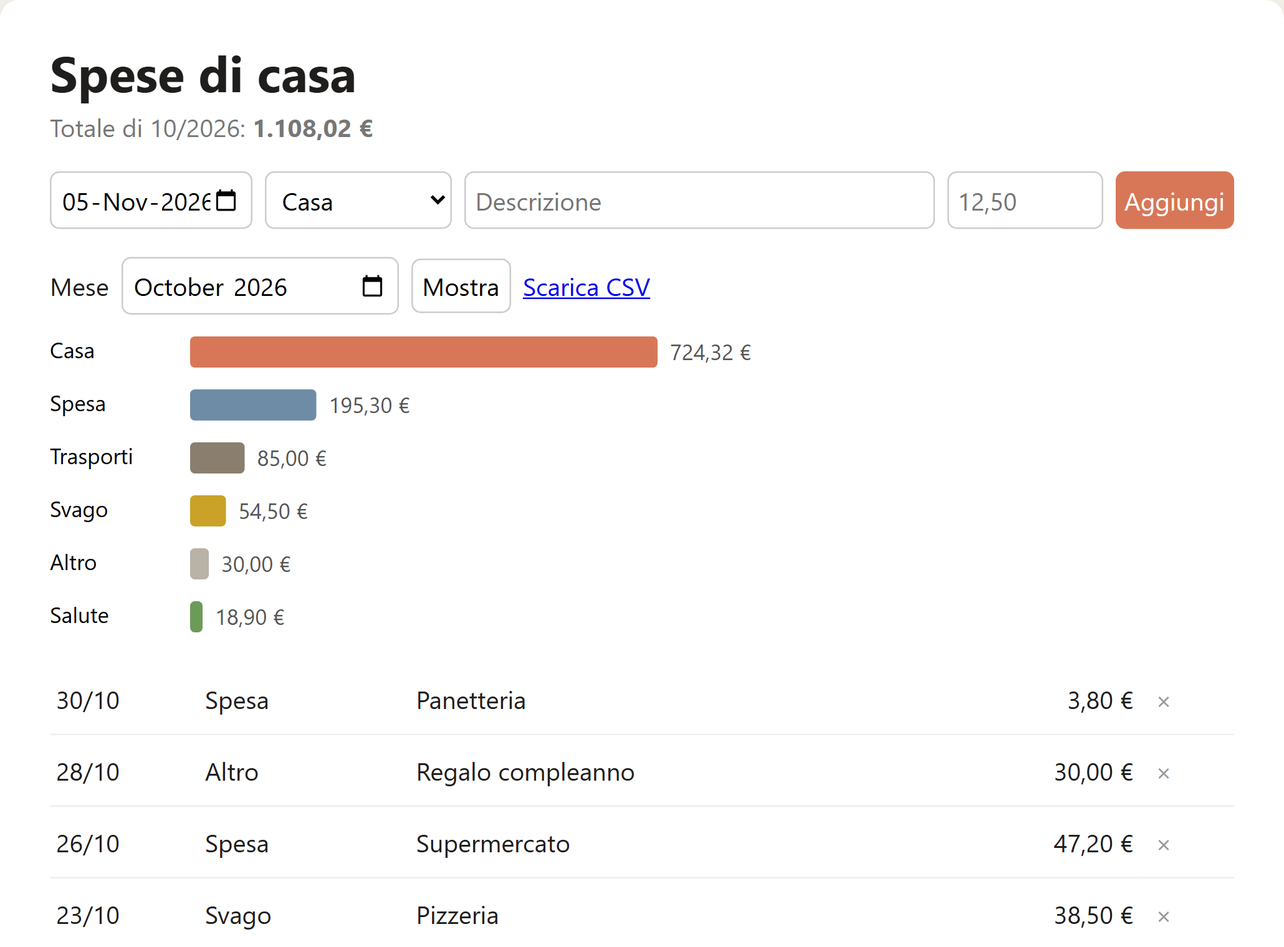
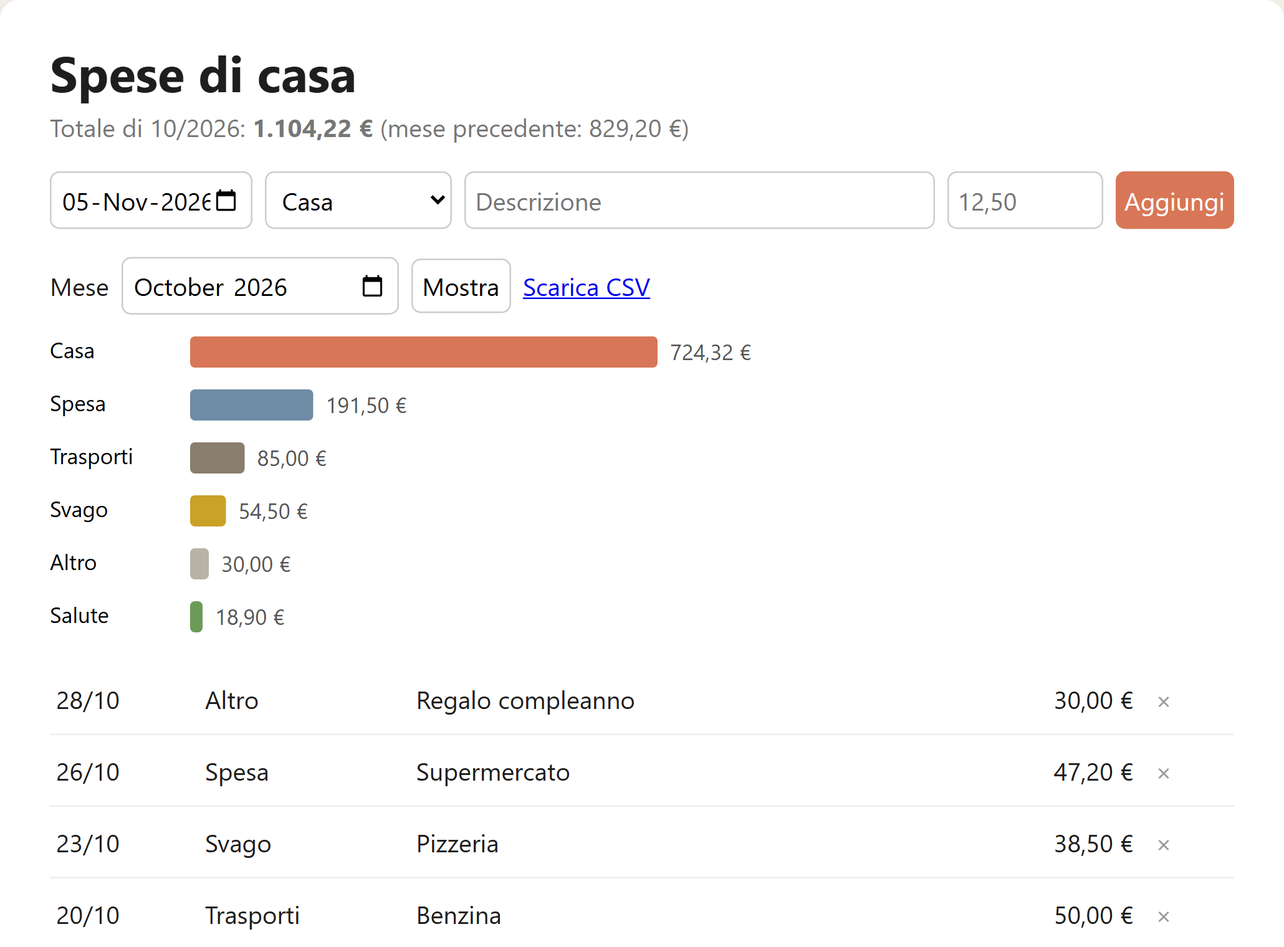
S17: cap. 13 «Un progetto completo» — 10 pp., 2.474 parole, 3 figure
- capitoli/13-un-progetto-completo.md: «Spese di casa» dal requisito
  alla documentazione: piano (centesimi, SQLite), dati prima della
  pagina, la pagina, la prova vera (messaggi in inglese → rosso/verde),
  quarta sessione (mese precedente, caso limite di gennaio), «E poi?»,
  dietro le quinte (comando bloccato dalla modalità Auto), Git e README
- esempi/cap13/spese/: funzione mese_precedente/totale, 9 test OK, dati
  di esempio su due mesi; nuova schermata IMG-13-02
- FATTI.md: F-127 corretto (due episodi distinti nella fonte)
- build_book.py: blocchi di codice brevi indivisibili e legati al
  paragrafo che li introduce
- glossario +6 voci; PLAN.md §13 aggiornato

diff --git a/esempi/cap13/spese/app.py b/esempi/cap13/spese/app.py
@@ -40,6 +40,8 @@ def pagina(mese, messaggio=""):
         for i, d, c, t, cent in spese.del_mese(DB, mese))
     opzioni = "".join(f"<option>{c}</option>" for c in spese.CATEGORIE)
     totale = spese.euro(sum(totali.values()))
+    prima = spese.totale(DB, spese.mese_precedente(mese))
+    confronto = f" (mese precedente: {spese.euro(prima)})" if prima else ""
     return f"""<!doctype html><html lang="it"><meta charset="utf-8">
 <title>Spese di casa</title><style>
 body {{ font-family: system-ui, sans-serif; background: #f4f1ea; margin: 0; color: #1f1e1d }}
@@ -55,7 +57,7 @@ td button {{ border: 0; color: #999 }} svg text {{ font-size: 14px }} svg .val {
 .messaggio {{ background: #fbe9e5; padding: 8px 12px; border-radius: 6px }}
 .mese {{ display: flex; gap: 8px; align-items: center; margin: 18px 0 8px }}
 </style><main>
-<h1>Spese di casa</h1><p class="sotto">Totale di {mese[5:]}/{mese[:4]}: <b>{totale}</b></p>
+<h1>Spese di casa</h1><p class="sotto">Totale di {mese[5:]}/{mese[:4]}: <b>{totale}</b>{confronto}</p>
 {f'<p class="messaggio">{html.escape(messaggio)}</p>' if messaggio else ''}
 <form class="nuova" method="post" action="/aggiungi">
  <input type="date" name="data" value="{date.today().isoformat()}" required>

diff --git a/build/build_book.py b/build/build_book.py
@@ -497,6 +497,13 @@ class Costruttore:
         larghezza_tabella(tab, stili.LARGHEZZA_TESTO_CM)
         margini_cella(tab, 0.15, 0.3, 0.15, 0.3)
         cella = tab.cell(0, 0)
+        if len(contenuto.splitlines()) <= 30:     # i blocchi brevi non si spezzano tra due pagine
+            tab.rows[0]._tr.get_or_add_trPr().append(stili.elemento("w:cantSplit"))
+            # e il paragrafo che li introduce («…così:») resta sulla stessa pagina
+            prec = tab._tbl.getprevious()
+            if prec is not None and prec.tag == qn("w:p"):
+                from docx.text.paragraph import Paragraph
+                Paragraph(prec, target).paragraph_format.keep_with_next = True
         if terminale:
             bordi_tabella(tab, {})
             sfondo_cella(cella, stili.FONDO_TERMINALE)

diff --git a/esempi/cap13/spese/test_spese.py b/esempi/cap13/spese/test_spese.py
@@ -38,6 +38,13 @@ class TestSpese(unittest.TestCase):
         self.assertEqual(spese.totali_per_categoria(self.db, "2026-10"),
                          {"Casa": 8000, "Spesa": 5800})
 
+    def test_mese_precedente(self):
+        self.assertEqual(spese.mese_precedente("2026-10"), "2026-09")
+        self.assertEqual(spese.mese_precedente("2026-01"), "2025-12")
+
+    def test_totale_del_mese_vuoto(self):
+        self.assertEqual(spese.totale(self.db, "2026-09"), 0)
+
     def test_dati_sbagliati_non_entrano(self):
         with self.assertRaises(ValueError):
             spese.aggiungi(self.db, "2026-02-30", "Casa", "Data impossibile", "10")

diff --git a/esempi/cap13/spese/dati_esempio.py b/esempi/cap13/spese/dati_esempio.py
@@ -1,7 +1,11 @@
-"""Riempie spese.db con un mese di spese inventate, per provare l'applicazione."""
+"""Riempie spese.db con due mesi di spese inventate, per provare l'applicazione."""
 import spese
 
 ESEMPIO = [
+    ("2026-09-01", "Casa", "Affitto", "650"),
+    ("2026-09-04", "Spesa", "Supermercato", "71,10"),
+    ("2026-09-15", "Casa", "Bolletta gas", "41,80"),
+    ("2026-09-22", "Spesa", "Supermercato", "66,30"),
     ("2026-10-01", "Casa", "Affitto", "650"),
     ("2026-10-02", "Spesa", "Supermercato", "62,40"),
     ("2026-10-05", "Trasporti", "Abbonamento autobus", "35"),

diff --git a/esempi/cap13/spese/spese.py b/esempi/cap13/spese/spese.py
@@ -74,6 +74,17 @@ def totali_per_categoria(db, mese):
     return {c: t for c, t in sorted(righe, key=lambda r: -r[1])}
 
 
+def mese_precedente(mese):
+    """'2026-01' -> '2025-12'."""
+    anno, m = int(mese[:4]), int(mese[5:7])
+    return f"{anno - 1}-12" if m == 1 else f"{anno}-{m - 1:02d}"
+
+
+def totale(db, mese):
+    """Totale del mese in centesimi (0 se non ci sono spese)."""
+    return sum(totali_per_categoria(db, mese).values())
+
+
 def euro(centesimi):
     """1234567 -> '12.345,67 €' (formato italiano)."""
     intero, cent = divmod(centesimi, 100)

diff --git a/capitoli/13-un-progetto-completo.md b/capitoli/13-un-progetto-completo.md
@@ -1,0 +1,188 @@
+# Un progetto completo
+
+Kyle Easterly lavora come consulente e costruisce software con me. Ha raccontato che un ente non profit come lo Statewide Independent Living Council of Alaska, che organizza servizi per giovani con disabilità, prima non avrebbe mai potuto permettersi un programma su misura: i fondi per un progetto del genere semplicemente non c'erano. Oggi, dice, «un'intera categoria di cose è diventata possibile»: per un altro cliente trascrive in fogli di calcolo i registri delle consegne di carburante scritti a mano, e ha appena consegnato un'app per tablet. <!-- F-127 --> Mi piace questa storia perché non parla di grandi aziende tecnologiche: parla di un problema concreto, di una persona che lo conosceva bene e di un programma costruito su misura.
+
+Questo capitolo fa la stessa cosa in piccolo. Mettiamo insieme tutto quello che abbiamo visto finora, dal requisito alla documentazione, e costruiamo un'applicazione vera dall'inizio alla fine. L'ho costruita davvero mentre scrivevo queste pagine, e racconterò anche le cose andate storte, perché sono quelle che insegnano di più.
+
+## Il progetto: Spese di casa
+
+Anna, che abbiamo conosciuto nel capitolo 6 mentre riordinava la cartella dei download, vuole capire dove finiscono i soldi di casa. Ha provato con un foglio Excel, ma ogni mese finisce per rifare le stesse somme a mano, e il grafico non si aggiorna mai come dovrebbe. Vuole una cosa semplice: annotare ogni spesa con la sua categoria e vedere, mese per mese, quanto ha speso per la casa, per la spesa, per i trasporti.
+
+È un progetto perfetto per imparare: abbastanza piccolo da completarlo in un pomeriggio, abbastanza grande da contenere tutti gli ingredienti di un'applicazione vera. Ci sono dei dati da conservare, delle regole da rispettare, una pagina da usare, dei test, una storia delle versioni e un manuale d'uso.
+
+## Prima sessione: il requisito e il piano
+
+Si comincia, come sempre, da mezza pagina:
+
+```terminale
+> Voglio un'applicazione per annotare le spese di casa.
+  Per ogni spesa: data, categoria (Casa, Spesa, Trasporti,
+  Salute, Svago, Altro), descrizione, importo in euro.
+  Voglio vedere le spese di un mese, il totale e un grafico
+  per categoria, e poter scaricare il mese per Excel.
+  La uso solo io, sul mio computer. Deve essere facile da
+  avviare e non voglio installare programmi strani.
+  Fammi un piano prima di scrivere codice.
+```
+
+In plan mode leggo la richiesta, ragiono e propongo un piano. Riassunto, il mio piano diceva così:
+
+- **Tecnologia**: Python, usando solo la sua libreria standard, cioè gli strumenti che Python ha già di serie. Così basta installare Python e nient'altro.
+- **Dati**: un piccolo database SQLite, che è un file unico, `spese.db`, nella cartella dell'applicazione. Copiare quel file significa fare una copia di sicurezza di tutto.
+- **Struttura**: tre file. `spese.py` con le regole e i calcoli, `app.py` con la pagina web, `test_spese.py` con i test.
+- **Gli importi in centesimi**: 12,50 € viene salvato come 1250. Il motivo è tecnico ma importante, e lo spiego tra un momento.
+- **Ordine di lavoro**: prima i dati e le regole con i loro test, poi la pagina.
+
+La figura 13.1 mostra come si incastrano i pezzi.
+
+![Com'è fatta «Spese di casa»: la pagina parla con le regole, le regole con i dati, i test controllano le regole](assets/cap13/IMG-13-01-architettura.png){larghezza=13}
+
+::: nota Perché i soldi si contano in centesimi
+I computer rappresentano i numeri con la virgola in un modo che a volte produce piccole imprecisioni: in molti linguaggi, per esempio, 0,1 + 0,2 non fa esattamente 0,3, ma 0,30000000000000004. Per un calcolo scientifico non importa; per un conto in euro sì, perché quelle briciole si sommano e prima o poi un totale non torna. Contando in centesimi interi il problema sparisce: 10 + 20 fa sempre 30. È una regola che chi scrive programmi di contabilità impara presto, e che tu puoi chiedermi di rispettare anche quando non me ne ricordo.
+:::
+
+Un piano non si approva a scatola chiusa. Prima di dire sì, Anna mi fa tre domande, ed è un'ottima abitudine. *Dove finiscono i miei dati?* In un file sul suo computer, non su internet. *Che cosa succede se il computer si rompe?* Si perde tutto, a meno di copiare ogni tanto `spese.db` su una chiavetta o in una cartella di backup: lo scriveremo nel manuale. *Potrò cambiare le categorie?* Sì, sono un elenco all'inizio di `spese.py`, facile da modificare. Tre domande, tre risposte che cambiano poco il codice ma molto la fiducia.
+
+SQLite, per inciso, è il genere di tecnologia che non si vede ma c'è dappertutto: è un database completo che sta in un singolo file, senza un programma separato da installare e da tenere acceso. Per uno strumento personale è la scelta più semplice che funzioni, quella che il capitolo 10 ci ha insegnato a chiedere.
+
+Anna approva il piano con «Yes, manually approve edits», la modalità prudente del capitolo 7, e si comincia.
+
+## Seconda sessione: prima i dati, poi la pagina
+
+Può sembrare strano non partire dalla parte che si vede. Ma la pagina è solo una finestra: il cuore dell'applicazione sono le regole. Come si legge un importo scritto da una persona? Che cosa succede con una data impossibile, come il 30 febbraio? Come si calcolano i totali del mese? Se queste regole sono giuste e verificate, la pagina è una formalità. Se sono sbagliate, nessuna pagina, per quanto bella, le salverà.
+
+Ecco una delle regole, quella che legge gli importi. Ho imparato la lezione del capitolo 11, e questa volta la virgola all'italiana l'ho prevista fin dall'inizio:
+
+```python
+def leggi_importo(testo):
+    """'12,50' o '1.234,5' -> centesimi (int)."""
+    s = testo.strip().replace("€", "").strip()
+    if "," in s:
+        s = s.replace(".", "").replace(",", ".")
+    euro = float(s)
+    if euro <= 0:
+        raise ValueError("L'importo deve essere positivo")
+    return round(euro * 100)
+```
+
+Insieme alle regole ho scritto sei test: gli importi all'italiana («12,50», «1.234,5», «€ 3,20»), gli importi non validi («dodici», «-5», «0»), il formato degli euro nelle pagine, i totali di un mese con spese su due mesi diversi, i dati sbagliati che non devono entrare e il file CSV per Excel. Ognuno usa un database «usa e getta», creato in memoria e buttato alla fine, così i test non toccano mai i dati veri.
+
+I sei test sono passati al primo colpo. Lo dico perché è vero, ma anche per mettere in guardia: un test che passa al primo colpo dimostra solo che il codice fa quello che *io* pensavo dovesse fare. Che sia quello che serve ad Anna lo dirà la prova vera.
+
+## Terza sessione: la pagina
+
+Con le regole al loro posto, la pagina web è venuta in fretta: un modulo per aggiungere una spesa, la scelta del mese, il grafico a barre per categoria, l'elenco delle spese con una × per eliminarle e il collegamento per scaricare il CSV. Per avviarla:
+
+```terminale
+PS C:\Users\anna\spese> py dati_esempio.py
+Aggiunte 16 spese di esempio in spese.db
+PS C:\Users\anna\spese> py app.py
+Spese di casa: apri http://localhost:8000 (Ctrl+C per fermare)
+```
+
+`localhost` è il nome con cui un computer chiama se stesso: la pagina si apre nel browser come un sito qualunque, ma tutto succede sul computer di Anna. La figura 13.2 mostra l'applicazione con due mesi di spese inventate.
+
+![«Spese di casa» in funzione, con le spese di esempio di ottobre (schermata reale, ritagliata)](assets/cap13/IMG-13-02-app.png){larghezza=8.5}
+
+::: attenzione Solo sul tuo computer
+Un'applicazione come questa è pensata per girare sul tuo computer e rispondere solo a te. Metterla su internet, renderla accessibile ai colleghi o farle gestire dati altrui è un altro mestiere: servono accessi protetti, copie di sicurezza, attenzione ai dati personali. Posso aiutarti anche in quello, ma è il momento giusto per coinvolgere chi in azienda si occupa di sicurezza informatica.
+:::
+
+## La prova vera
+
+Poi ho fatto quello che fa un utente: ho usato l'applicazione, provando anche a sbagliare. E al primo errore voluto, un importo scritto in lettere, è comparso questo messaggio:
+
+```terminale
+Non ho salvato: could not convert string to float: 'dodici'
+```
+
+Tecnicamente corretto: l'applicazione aveva rifiutato il dato sbagliato, come previsto dai test. Ma il messaggio era quello di Python, in inglese e in gergo, e per Anna sarebbe stato incomprensibile. Nessun test se n'era accorto, perché nessun test controllava *che cosa* diceva il messaggio, solo *che* ci fosse un errore. È la differenza tra un programma che funziona e un programma che si usa.
+
+Ho seguito il metodo del capitolo 11. Prima un test nuovo, che chiede un messaggio in italiano, ed ecco il rosso, accorciato:
+
+```terminale
+PS C:\Users\anna\spese> py -m unittest
+.....F.
+FAIL: test_messaggio_in_italiano
+AssertionError: "non è un importo valido" does not match
+"could not convert string to float: 'dodici'"
+FAILED (failures=1)
+```
+
+Poi la correzione: intercettare l'errore di Python e sostituirlo con un messaggio chiaro, «“dodici” non è un importo valido (esempio: 12,50)». Verde. E già che c'ero ho controllato gli altri messaggi d'errore, trovando lo stesso problema con le date impossibili, «day is out of range for month», che ora diventa «“2026-02-30” non è una data valida». Un test in più, un'altra correzione, sette test verdi su sette.
+
+Una terza cosa, invece, non l'ho corretta, e te la dico. Nella figura 13.2 i campi della data mostrano «05-Nov-2026» e «October 2026», in inglese. Non è un errore dell'applicazione: quei campi li disegna il browser, nella lingua e nel formato che ha impostato lui. Si potrebbe rimediare sostituendoli con campi fatti a mano, ma a costo di complicare il codice, e ad Anna basta che la data sia quella giusta. Anche decidere che cosa *non* correggere fa parte del lavoro.
+
+## Quarta sessione: una settimana dopo
+
+Uno strumento vero cambia con l'uso. Dopo qualche giorno Anna torna con una richiesta: «vorrei vedere, accanto al totale del mese, quanto avevo speso il mese prima». È una modifica piccola, ed è il genere di modifica in cui si nascondono gli errori più banali. Il mese prima di ottobre è settembre, facile. Ma il mese prima di gennaio? Non è il mese «zero» dello stesso anno: è dicembre dell'anno precedente.
+
+Questo caso l'ho messo nei test prima ancora di scrivere la funzione:
+
+```python
+def test_mese_precedente(self):
+    self.assertEqual(spese.mese_precedente("2026-10"), "2026-09")
+    self.assertEqual(spese.mese_precedente("2026-01"), "2025-12")
+```
+
+Poi la funzione, poche righe, e un secondo test per il mese senza spese, che deve dare zero e non un errore. Nove test verdi su nove, e in cima alla pagina ora compare «Totale di 10/2026: 1.104,22 € (mese precedente: 829,20 €)», come si vede nella figura 13.2. Ecco perché conviene chiedermi sempre i casi limite: gennaio, il primo giorno, il campo vuoto, il numero zero. Sono pochi, si scrivono una volta, e ti risparmiano la telefonata del primo gennaio.
+
+## E poi?
+
+Le idee arrivano presto, una volta che uno strumento funziona. Anna ne ha già tre: importare automaticamente l'estratto conto della banca, ricevere un avviso quando una categoria supera il budget del mese, e far usare l'applicazione anche al compagno, dal suo computer.
+
+Non sono tre richieste uguali, e vale la pena guardarle con gli occhi del capitolo 10. L'avviso sul budget è una piccola aggiunta: una soglia per categoria e un messaggio colorato, nello spirito di quello che abbiamo già. L'importazione dell'estratto conto è più delicata: ogni banca produce un file diverso, quindi serve un esempio vero del file, qualche test con i suoi casi strani e la pazienza di scoprire che cosa succede con gli addebiti annullati. L'uso da due computer, infine, cambia la natura del progetto: l'applicazione dovrebbe essere raggiungibile in rete, con un accesso protetto. È il punto in cui il riquadro «Solo sul tuo computer» smette di essere un consiglio e diventa una regola. Saper distinguere una richiesta piccola da una che cambia tutto è, forse, la competenza più utile che questo capitolo può lasciarti.
+
+## Dietro le quinte
+
+Forse ti chiedi che cosa abbia fatto io, concretamente, durante queste sessioni. Ho scritto i file, certo, ma soprattutto li ho *eseguiti*: ho lanciato i test dopo ogni modifica, ho avviato l'applicazione, l'ho provata con richieste vere, giuste e sbagliate, e ho usato un programma che apre il browser, compila i campi e fotografa la pagina, lo stesso che ha prodotto la figura 13.2. È la differenza tra un assistente che scrive codice e uno che lo verifica: il secondo ti porta risultati controllati, non promesse.
+
+Vale la pena raccontare anche un piccolo episodio che riguarda me. Per provare l'applicazione la avviavo, la usavo nel browser e poi dovevo fermarla prima di riavviarla con le correzioni. A un certo punto, per fare in fretta, ho provato a chiudere con un solo comando *tutti* i programmi Python in esecuzione sul computer. Lavoravo in modalità Auto, e il controllore di cui abbiamo parlato nel capitolo 9 ha bloccato il comando: avrebbe potuto interrompere altri programmi, magari tuoi, che non c'entravano niente.
+
+Aveva ragione. Ho cercato quale processo stesse usando la porta 8000, ho verificato che fosse davvero la mia applicazione di prova e ho fermato solo quello. Lo racconto perché è un buon esempio di come dovrebbe funzionare la collaborazione: io vado veloce, qualcuno o qualcosa controlla che la velocità non diventi fretta, e quando vengo fermato cerco una strada più precisa, non una scorciatoia per aggirare il divieto.
+
+## Git e documentazione
+
+A fine lavoro ho messo il progetto sotto Git, come nel capitolo 12, con un commit per ogni passo e un `.gitignore` che esclude il database, perché i dati personali non devono finire nella storia delle versioni. Il diario del progetto è questo:
+
+```terminale
+$ git log --oneline
+fd8ea04 README: come si avvia e come si usa
+ebe9d91 Dati di esempio per provare l'applicazione
+83c1571 La pagina web: inserimento, elenco del mese, grafico, CSV
+e1760ff Dati e regole: spese.py con i test (importi all'italiana)
+```
+
+L'ultimo commit è il manuale d'uso: un file `README.md` che spiega in una pagina che cosa serve, come si avvia, come si usa e come si fa una copia di sicurezza. Chiedimelo sempre, anche per gli strumenti più piccoli. Tra sei mesi, quando non ricorderai più come si avviava quella cosa che ti avevo fatto, il README sarà la differenza tra trenta secondi e un pomeriggio. Ed è la parte del lavoro che le persone saltano più volentieri, mentre a me non costa nessuna fatica.
+
+![Il progetto, passo per passo: dal requisito alla documentazione](assets/cap13/IMG-13-03-percorso.png){larghezza=13}
+
+::: consiglio Il CLAUDE.md di un progetto così
+Se Anna tornerà a lavorare su Spese di casa tra qualche mese, io non ricorderò niente di tutto questo. Bastano poche righe nel CLAUDE.md del progetto perché io riparta nel modo giusto: «Applicazione Python solo con la libreria standard. Importi sempre in centesimi. Messaggi per l'utente in italiano. Prima di dire che hai finito esegui `py -m unittest` e mostrami il risultato. Non toccare mai spese.db».
+:::
+
+## Che cosa portarsi via
+
+Se dovessi riassumere questo capitolo in una pagina di appunti, scriverei così.
+
+**I dati prima della pagina.** Le regole sono il cuore; la pagina è la finestra. Verificate le regole, il resto viene da sé.
+
+**I test dicono se il programma fa quello che pensavo; la prova vera dice se fa quello che serve.** Servono tutti e due. I sei test verdi al primo colpo non avevano visto il messaggio in inglese; cinque minuti di uso vero sì.
+
+**Le correzioni passano dal rosso.** Ogni difetto trovato diventa prima un test che fallisce, poi una correzione. Così non torna più.
+
+**I casi limite si scrivono subito.** Gennaio, il campo vuoto, lo zero, la data impossibile: pochi test scritti una volta valgono più di molte verifiche a mano, e ti proteggono proprio nei giorni in cui hai meno tempo per controllare.
+
+**Il lavoro non è finito senza storia e manuale.** Un commit per passo e un README che spiega come si usa: è quello che trasforma un esperimento in uno strumento.
+
+**Sapere dove fermarsi.** Una cosa che gira sul tuo computer e serve a te è un ottimo progetto da fare con me. Una cosa che gestisce dati altrui su internet merita un professionista accanto.
+
+Da qui in avanti il libro cambia scena: lasciamo le applicazioni e torniamo in ufficio, tra documenti, fogli di calcolo e PDF. Le regole, però, restano le stesse.
+
+## In breve
+
+- Un progetto completo attraversa sette passi: **requisito, piano, dati e regole, pagina, prova vera, Git, documentazione**.
+- Con la **libreria standard** di Python e un file **SQLite** si costruiscono strumenti utili senza installare altro.
+- I soldi si contano in **centesimi interi**, per evitare errori di arrotondamento.
+- La **prova vera** trova ciò che i test non vedono, come un messaggio d'errore incomprensibile.
+- Ogni progetto si chiude con un **README** e un **CLAUDE.md**: il primo per te, il secondo per me.

diff --git a/research/FATTI.md b/research/FATTI.md
@@ -85,7 +85,7 @@ Numerazione: F-0xx storia dell'informatica · F-1xx origini · F-2xx lancio e ta
 | F-124 | Il vero decollo arrivò con i modelli Claude 4 e con gli abbonamenti: "un'innovazione del modello di business insieme a un'innovazione del modello" (Cherny) | https://www.anthropic.com/features/making-of-claude-code (testo in `research/fonti/the-making-of-claude-code.txt`) | A | 3 |
 | F-125 | Cherny: a febbraio 2025 Claude Code scriveva forse il 10% del suo codice, a maggio il 30–40%, dall'inverno 2025 il 100%, "nemmeno una riga a mano" | https://www.anthropic.com/features/making-of-claude-code (testo in `research/fonti/the-making-of-claude-code.txt`) | A | 4, 25 |
 | F-126 | Cat Wu: al lancio tutti leggevano ogni richiesta di permesso; oggi molti utenti accettano tutto automaticamente, segno che Claude "si è guadagnato la fiducia" | https://www.anthropic.com/features/making-of-claude-code (testo in `research/fonti/the-making-of-claude-code.txt`) | A | 9 |
-| F-127 | Kyle Easterly: per lo Statewide Independent Living Council of Alaska (ente non profit) ha costruito software prima inaccessibile; oggi trascrive registri cartacei di consegne di carburante in CSV | https://www.anthropic.com/features/making-of-claude-code (testo in `research/fonti/the-making-of-claude-code.txt`) | A | Parte IV, 26 |
+| F-127 | Kyle Easterly: un ente non profit come lo Statewide Independent Living Council of Alaska (servizi per giovani con disabilità) «non avrebbe mai potuto permettersi software su misura»; «un'intera categoria di cose è diventata possibile». Per un altro cliente trascrive in CSV registri scritti a mano di consegne di carburante (North Slope) e ha appena lanciato un'app per tablet (corretto il 2026-11-05: prima le due cose erano fuse) | https://www.anthropic.com/features/making-of-claude-code (testo in `research/fonti/the-making-of-claude-code.txt`) | A | 13, 26 |
 | F-128 | Cherny confronta Claude Code con la perforatrice IBM 029, simile a quella con cui programmava suo nonno nell'Unione Sovietica: "da qualche parte su questo spettro c'è Claude Code" | https://www.anthropic.com/features/making-of-claude-code (testo in `research/fonti/the-making-of-claude-code.txt`) | A | 1, 26 |
 | F-129 | Le interviste sono state registrate tra febbraio e maggio 2026, quindi la pagina è stata pubblicata dopo: la data 23/02/2026 di F-106 è **errata o da ricontrollare** (non usarla) | https://www.anthropic.com/features/making-of-claude-code (testo in `research/fonti/the-making-of-claude-code.txt`) | A | — |
 | F-130 | Cherny sul prototipo Claude CLI: «circa due giorni di lavoro; rifarlo oggi con Claude Code richiederebbe due minuti» | https://www.anthropic.com/features/making-of-claude-code (testo in `research/fonti/the-making-of-claude-code.txt`, accesso 2026-11-05) | A | 2 |

diff --git a/PLAN.md b/PLAN.md
@@ -519,7 +519,7 @@ Ogni sessione si chiude con un commit git (regole in CLAUDE.md, sezione "Git"). 
 | 10 | Dal requisito al prototipo | 6 | 1.350 | ✅ 2026-11-05 | 6 | 1.224 parole (−9%), 204 parole/pagina, 2 figure (percorso in Graphviz; schermata reale della mini-app), 2 box, 3 rimandi. **Mini-app vera** in `esempi/cap10/convertitore.html`, provata con `build/figure/cap10_app.mjs` (1 mi = 1,6093 km; −40 °C = −40 °F; 100 °C = 373,15 K). Corretto l'apostrofo nel titolo della Parte IV |
 | 11 | Test e debug | 6 | 1.350 | ✅ 2026-11-05 | 6 | 1.245 parole (−8%), 208 parole/pagina, 2 figure (uscita **reale** dei test; ciclo rosso-verde), 1 box attenzione, 4 rimandi. **Bug vero** trovato nella mini-app del cap. 10: «1,5» letto come 15 (campo numerico del browser) e temperature sotto lo zero assoluto. Test in `esempi/cap11/prova-convertitore.mjs` (2 falliti sulla versione del cap. 10, 7/7 sulla versione corretta `esempi/cap11/convertitore.html`); uscite in research/note/test-cap11-*.txt. Traceback Python reale (percorsi accorciati) |
 | 12 | Git e revisione del codice | 6 | 1.350 | ✅ 2026-11-05 | 6 | 1.235 parole (−9%), 206 parole/pagina, 2 figure (log e diff **reali** del repository di prova della mini-app; linea della metropolitana), 1 box attenzione, 7 rimandi. Apertura con il `git log` vero di questo libro. Fatti F-381…F-384 (/code-review, /security-review, /install-github-app, /diff) |
-| 13 | Un progetto completo | 12 | 2.700 | ☐ | | |
+| 13 | Un progetto completo | 12 | 2.700 | ✅ 2026-11-05 | 10 | 2.474 parole (−8%), 247 parole/pagina, 3 figure (architettura; schermata **reale**; percorso), 3 box, 1 rimando (F-127, corretto: ente non profit e cliente del carburante erano fusi). **Applicazione vera** `esempi/cap13/spese/` (solo libreria standard, SQLite, 9 test OK): difetti trovati provando (messaggi d'errore in inglese per importi e date), funzione «mese precedente» con caso limite gennaio→dicembre. Episodio vero: comando troppo ampio bloccato dal classificatore della modalità Auto. Build: blocchi di codice brevi non più spezzati tra pagine e legati al paragrafo che li introduce. Due pagine sotto budget |
 | 14 | Documenti | 6 | 1.350 | ☐ | | |
 | 15 | Fogli di calcolo | 6 | 1.350 | ☐ | | |
 | 16 | PDF | 5 | 1.150 | ☐ | | |

diff --git a/research/note/glossario.md b/research/note/glossario.md
@@ -75,3 +75,9 @@ Raccolti capitolo per capitolo; la definizione finale si scrive nella sessione d
 | revisione del codice | 12 | Rilettura delle modifiche da parte di un'altra persona (o di Claude) prima di accettarle |
 | pull request | 12 | Proposta di unire un branch, da rivedere e approvare (su GitHub) |
 | GitHub | 12 | Servizio online che ospita repository e il lavoro di gruppo |
+| libreria standard | 13 | Gli strumenti che un linguaggio (es. Python) ha già di serie, senza installare altro |
+| SQLite | 13 | Database completo contenuto in un solo file |
+| database | 13 | Archivio ordinato di dati, interrogabile da un programma |
+| localhost | 13 | Il nome con cui un computer chiama se stesso: una pagina «locale» |
+| caso limite | 13 | Situazione ai margini (gennaio, campo vuoto, zero) dove si nascondono gli errori |
+| CSV | 13 | File di testo con dati in colonne separate da un simbolo, leggibile da Excel |
